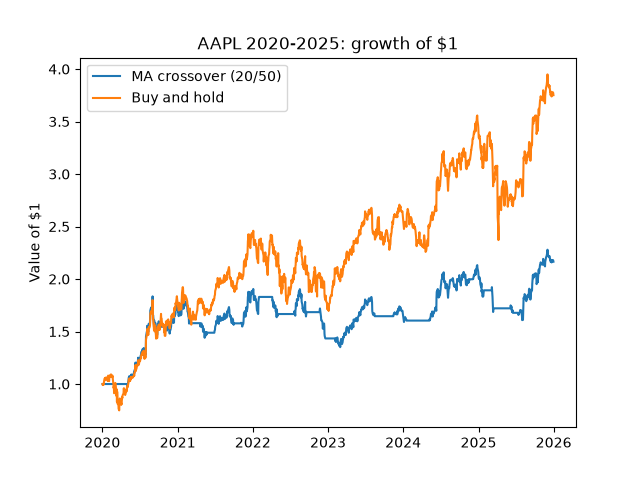
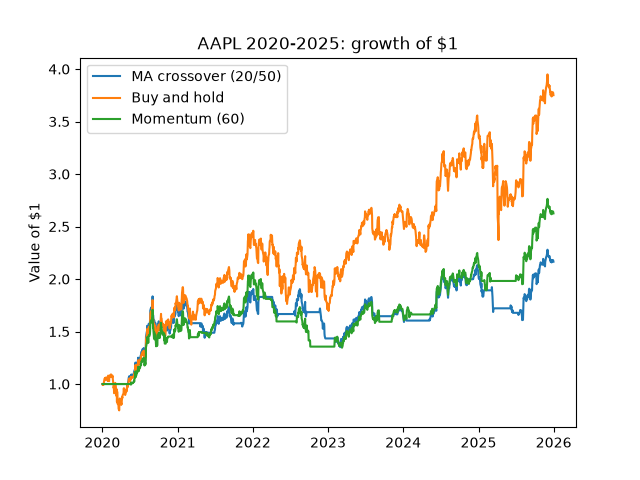
add momentum results to README

Changed region(s): [[0.1562, 0.4688, 0.8438, 0.8125], [0.125, 0.2188, 0.4062, 0.2812], [0.8438, 0.4062, 0.875, 0.4688]]

diff --git a/run_backtest.py b/run_backtest.py
@@ -1,21 +1,25 @@
 import matplotlib.pyplot as plt
 
 from tradebot.data import get_prices
-from tradebot.strategy import moving_average_signals
+from tradebot.strategy import moving_average_signals, momentum_signals
 from tradebot.backtest import backtest
 from tradebot.metrics import total_return, max_drawdown, sharpe_ratio
 
 prices = get_prices("AAPL", '2020-01-01', '2026-01-01')
 signals = moving_average_signals(prices, 20, 50)
 equity = backtest(prices, signals)
+momentum = momentum_signals(prices, 60)
+momentum_equity = backtest(prices, momentum)
 
 buy_hold = prices / prices.iloc[0]
 
-print(f"Strategy  return: {total_return(equity):.2f}  drawdown: {max_drawdown(equity):.2f}  sharpe: {sharpe_ratio(equity):.2f}")
+print(f"MA crossover  return: {total_return(equity):.2f}  drawdown: {max_drawdown(equity):.2f}  sharpe: {sharpe_ratio(equity):.2f}")
 print(f"Buy and Hold  return: {total_return(buy_hold):.2f}  drawdown: {max_drawdown(buy_hold):.2f}  sharpe: {sharpe_ratio(buy_hold):.2f}")
+print(f"Momentum  return: {total_return(momentum_equity):.2f}  drawdown: {max_drawdown(momentum_equity):.2f}  sharpe: {sharpe_ratio(momentum_equity):.2f}")
 
 plt.plot(equity, label="MA crossover (20/50)")
 plt.plot(buy_hold, label="Buy and hold")
+plt.plot(momentum_equity, label="Momentum (60)")
 plt.legend()
 plt.title("AAPL 2020-2025: growth of $1")
 plt.ylabel("Value of $1")

diff --git a/README.md b/README.md
@@ -11,26 +11,32 @@ The long-term goal is to run the same strategies live on an Alpaca paper trading
 
 ## Results
 
-20/50-day moving average crossover on AAPL, January 2020 to December 2025 (1,508 trading days):
+Both strategies were tested on **AAPL**, *January 2020* to *December 2025* (1,508 trading days):
 
 ![Backtest](backtest.png)
 
-| Metric | MA crossover | Buy and hold |
-|---|---|---|
-| Total return | +116.5% | +275.1% |
-| Max drawdown | -29.1% | -33.4% |
-| Sharpe ratio | 0.74 | 0.85 |
+| Metric | MA crossover | Momentum (60) | Buy and hold |
+|---|---|---|---|
+| Total return | +116.5% | +163% | +275.1% |
+| Max drawdown | -29.1% | -35% | -33.4% |
+| Sharpe ratio | 0.74 | 0.87 | 0.85 |
 
 ## What I found
 
 The strategy makes money, but less than half of what buy and hold made. AAPL went up a lot over this period, and the strategy spent a big part of it in cash. Moving averages only cross after a trend has already started, so it buys late and sells late.
 
-It did have a smaller worst drop (-29% vs -33%). The Sharpe ratio islower, so it didn't make up for the lost return by taking less risk.
+It did have a smaller worst drop (-29% vs -33%). The Sharpe ratio is lower, so it didn't make up for the lost return by taking less risk.
+
+The momentum **made** more than the MA crossover and less than buy-and-hold. **Buy-and-hold made the most money by a lot**. Momentum's Sharpe ratio is slightly higher than buy-and-hold (0.87 vs 0.85), but that gap is too small to mean much on one stock. It also had the worst drop of the three (-35%), so it didn't get out early enough to avoid the crashes.
+
+Neither strategy beat just holding AAPL over this period.
 
 ## How it works
 
 - `data.py` downloads daily closing prices with yfinance and caches them as CSV files in `data/`
-- `strategy.py` holds the stock (1) when the 20-day average is above the 50-day average, otherwise stays in cash (0)
+- `strategy.py` has two strategies. Each returns 1 (hold the stock) or 0 (stay in cash) for every day:
+  - MA crossover: holds when the 20-day average is above the 50-day average
+  - Momentum: holds when today's price is higher than it was 60 days ago
 - `backtest.py` uses the previous day's signal for each day's return, so the strategy can't see the future
 - `metrics.py` calculates total return, max drawdown and annualized Sharpe ratio
 
@@ -59,7 +65,7 @@ pytest
 
 ## Next steps to finish the project
 
-- More tests, including one that checks the backtest doesn't use future data
 - Transaction costs
-- More strategies (momentum, RSI) and testing on other tickers
+- Testing on other tickers (SPY, MSFT, TSLA)
+- More strategies (RSI)
 - Live paper trading with the Alpaca API
